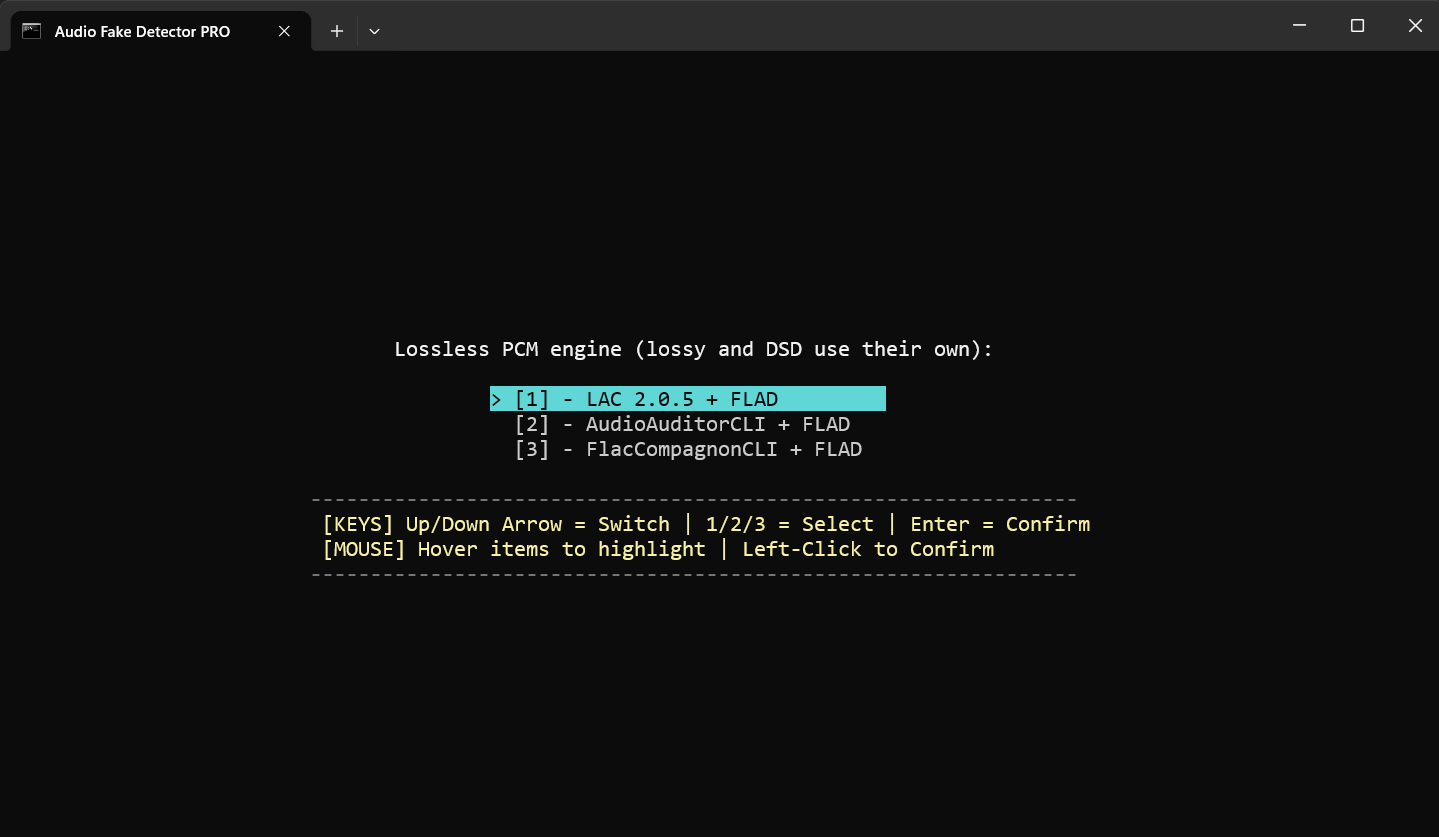
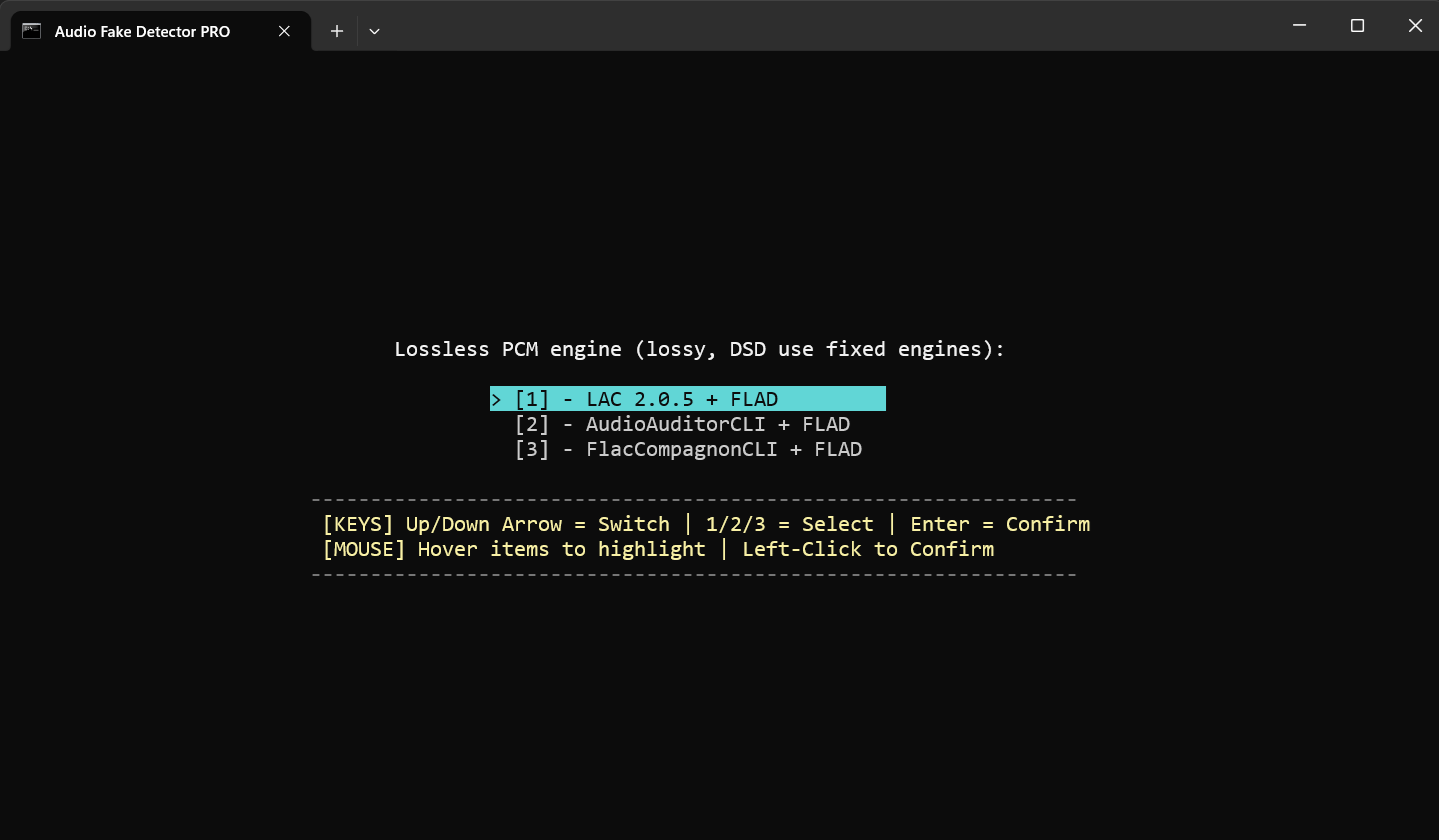
Add files via upload

diff --git a/README.md b/README.md
@@ -49,7 +49,7 @@ Self explained
 
 * Detection of fake 320 kbps MP3 files
 * Detection of fake lossless audio (FLAC, WAV, APE, AIFF, WV)
-* Hi-Res / Ultra-Hi-Res PCM analysis (up to 384 kHz and beyond) and native DSD support (.dsf, .dff), with DSD-to-PCM noise-shaping recognition to avoid false positives on genuine SACD/DSD-derived content
+* Hi-Res / Ultra-Hi-Res PCM analysis (up to 384 kHz and beyond) and native DSD support (.dsf, .dff), analyzed on native DSD slots by FlacCompagnonCLI
 * Spectral cutoff and compression artifact detection
 * Multi-segment frequency analysis
 * Joint stereo anomaly detection
@@ -71,7 +71,7 @@ Audio Fake Detector PRO uses a hybrid analysis engine:
 * **Statistical Validation**: verifies lossless authenticity using the selected lossless engine. LAC + FLAD, AudioAuditorCLI + FLAD, and FlacCompagnonCLI + FLAD use FLAD as a second-opinion check.
 * **Segment-Based Voting System**: improves accuracy by analyzing multiple independent audio segments
 
-This approach reduces false positives and improves detection reliability across different audio formats, including Hi-Res/Ultra-Hi-Res PCM and native DSD, where a dedicated noise-shaping signature check tells a genuine SACD/DSD-derived source apart from an upsampled fake.
+This approach reduces false positives and improves detection reliability across different audio formats, including Hi-Res/Ultra-Hi-Res PCM and native DSD.
 
 ---
 
@@ -87,7 +87,7 @@ LAC performs the primary command-line analysis. FLAD is used as a second-opinion
 If LAC identifies a file as "Fake", no FLAD second-opinion verdict is required to reject the file as genuine lossless.
 
 For slot analysis, FLAC files are temporarily converted to WAV segments (slots) for LAC. LAC and FLAD then analyse the same corresponding temporary WAV segment for each slot.  
-For full-track analysis, LAC analyses the temporary full-track WAV converted from the original FLAC, while FLAD analyses the original FLAC file directly.  
+For full-track analysis, LAC (which reads only WAV) analyses the original WAV directly, or a temporary full-track WAV converted from the original FLAC or any other non-WAV lossless format, while FLAD analyses the original file directly.  
 Therefore, the temporary FLAC-to-WAV conversion is required only for the LAC analysis path.
 
 Both command-line analyzers run through a unified 3-slot processing pipeline. The LAC/FLAD verification pipeline applies exclusively to lossless PCM audio.  
@@ -106,14 +106,14 @@ AudioAuditorCLI is the Windows x64 command-line client from the AudioAuditor pro
 For the 3-slot processing architecture, AudioAuditorCLI and FLAD analyse corresponding native-format slot files. A FLAC source remains FLAC for both analyzers; a WAV source remains WAV. No FLAC-to-WAV conversion is performed for the AudioAuditorCLI + FLAD path.  
 For full-track analysis, AudioAuditorCLI and FLAD both analyse the original source file directly, in its original format.
 
-AudioAuditorCLI + FLAD applies exclusively to lossless PCM audio. Native DSD files are not passed to either command-line analyzer and continue to use Audio Fake Detector PRO's native DSD analysis path.
+AudioAuditorCLI + FLAD applies exclusively to lossless PCM audio. Native DSD files are not passed to either command-line analyzer; they are analyzed by FlacCompagnonCLI (see the DSD section).
 
 The AudioAuditorCLI executable is not included in the base distribution when absent; when this engine is selected, Audio Fake Detector PRO can download `AudioAuditorCLI-win-x64.exe` automatically from the project's official GitHub release after the user has selected the corresponding mode.
 
 #### FlacCompagnonCLI + FLAD mode
 
 FlacCompagnonCLI is used as the primary lossless verification engine, with FLAD as an independent second-opinion check.  
-FlacCompagnonCLI is used exclusively for lossless PCM audio; native DSD files are not passed to, or analyzed by, FlacCompagnonCLI.  
+For lossless PCM audio FlacCompagnonCLI is paired with FLAD; native DSD files are analyzed by FlacCompagnonCLI alone, in every engine mode (see the DSD section).  
 No FLAC-to-WAV conversion is performed in either slot or full-track analysis. For slot analysis, FlacCompagnonCLI and FLAD analyze the same corresponding native-format slot: FLAC remains FLAC and WAV remains WAV. For full-track analysis, both analyzers analyze the original source file directly in its original format.  
 FlacCompagnonCLI is a custom command-line frontend based on the open-source FlacCompagnon project.
 
@@ -121,8 +121,11 @@ FlacCompagnonCLI is a custom command-line frontend based on the open-source Flac
 
 ### 🎧 DSD
 
-Audio Fake Detector PRO provides native DSD support (.dsf / .dff) independently of LAC, FLAD, AudioAuditorCLI, and FlacCompagnonCLI. Native DSD files are analyzed by the application's own DSD processing and are not processed through any of the selectable lossless verification pipelines.  
-The application also provides SACD/DSD-to-PCM noise-shaping detection, allowing DSD-derived characteristics to be identified when analyzing PCM material. This functionality is part of Audio Fake Detector PRO and is not performed by LAC, FLAD, AudioAuditorCLI, or FlacCompagnonCLI.
+Native DSD files (.dsf / .dff) are analyzed by FlacCompagnonCLI, in every engine mode (LAC + FLAD, AudioAuditorCLI + FLAD and FlacCompagnonCLI + FLAD). LAC, FLAD and AudioAuditorCLI are not used for DSD.  
+The 3 analysis slots are native DSD files in the same container as the source: a DSF slot is a DSF file and a DFF slot is a DFF file. The DSD bitstream is copied as-is from the original file; FFmpeg is not involved and nothing is decoded or resampled.  
+The 3 slots are analyzed in parallel, each by its own `ForceRedirect.exe` + `FlacCompagnonCLI.exe` pair, with FlacCompagnonCLI, and every process it spawns (such as ffmpeg), running at BelowNormal priority. The final verdict is the vote of the 3 slot results, using the same table as lossless audio; if no slot returns a usable verdict, the file is reported as UNKNOWN.  
+The container is checked a priori: for a DST-compressed DFF, native slots are not possible, so its 3 slots are extracted as WAV by FFmpeg (float32, decoder PCM rate, no extra resampling) and analyzed by FlacCompagnonCLI. DSF and uncompressed DFF always use native DSD slots.  
+`FlacCompagnonCLI.exe` must be present for DSD analysis in every engine mode.
 
 ---
 
@@ -137,9 +140,23 @@ The combination of a primary lossless analyzer and FLAD provides complementary v
 LAC is useful for detecting sample-rate upscaling (e.g. 44.1 → 48 kHz).  
 FLAD helps identify lossy-to-lossless transcodes (e.g. MP3/AAC → WAV/FLAC).  
 AudioAuditorCLI provides an additional independent lossless analysis path, returning explicit REAL / FAKE / UNKNOWN classifications.  
-Neither LAC, FLAD, AudioAuditorCLI, nor FlacCompagnonCLI is responsible for native DSD analysis; DSD processing is handled independently by Audio Fake Detector PRO since version 8.4.
+LAC, FLAD and AudioAuditorCLI are not used for native DSD analysis, which is handled by FlacCompagnonCLI alone (see the DSD section).
 
 These complementary analysis paths can expose different types of suspicious lossless material that may be missed by one analyzer alone.
+
+---
+
+### 🎯 Full Lossless Analysis
+
+The **Full lossless** toggle in the selection window analyzes the entire file instead of 3 slots, for every lossless format and for native DSD.  
+Lossless files are analyzed in their original format whenever the selected engine reads it natively. A temporary full-length WAV is made only when it does not, and the engine and FLAD then analyze that same WAV:  
+* **AudioAuditorCLI** reads FLAC, WAV, AIFF/AIF, APE, WV, ALAC, TTA, TAK and AU/SND natively.  
+* **FlacCompagnonCLI** reads FLAC, WAV, AIFF/AIF, ALAC and CAF natively; APE, WV, TTA, TAK and AU/SND are converted.  
+* **LAC** reads only WAV: a FLAC, and any other non-WAV source, is converted.  
+For formats other than FLAC and WAV, CLEAN is reported only when both the engine and FLAD return a verdict: if one of them cannot analyze the file, or a needed conversion fails, the result is UNKNOWN. A FAKE or SUSPECT from either stands.  
+In the per-slot analysis the second engine is always FLAD, whose supported input formats are not documented: slots stay in their native format only for FLAC and WAV, and every other format is cut as WAV.  
+Native DSD is always analyzed by FlacCompagnonCLI alone, whatever engine combination is selected, directly on the original file. Only a DST-compressed DFF is first decoded to a temporary full-length WAV by FFmpeg.  
+Full-track results are written to the main CSV only.
 
 ---
 
@@ -161,13 +178,14 @@ Shorter analysis segments provide faster analysis, while longer segments may pro
 ## 📦 Supported Formats
 
 **Lossy:**
-MP3, AAC, M4A, OGG, OPUS, WMA
+MP3, MP2, AAC, M4A, M4B, M4R, MP4, 3GP, 3G2, OGG, OPUS, WMA, Musepack (MPC, MP+), AC3, WEBM
 
 **Lossless:**
-FLAC, WAV, APE, AIFF, AIF, WV (up to Ultra-Hi-Res, e.g. 352.8/384 kHz and beyond)
+FLAC, WAV, AIFF, AIF, APE, WV, ALAC, TTA, TAK, CAF, AU, SND (up to Ultra-Hi-Res, e.g. 352.8/384 kHz and beyond)  
+ALAC is recognized by its codec inside M4A/MP4 files and analyzed as lossless.
 
 **Native DSD:**
-DSF, DFF (DSD64/128/256/512 - decimated to DXD 352.8 kHz/24-bit PCM for analysis; requires ffmpeg.exe/ffprobe.exe, always available with v8.x's bundled or auto-installed FFmpeg)
+DSF, DFF (DSD64/128/256/512 - analyzed on native DSD slots by FlacCompagnonCLI; ffprobe.exe is used to read duration and metadata)
 
 **Matroska:**
 MKV, MKA, MKS, MK3D
@@ -180,6 +198,7 @@ MKV, MKA, MKS, MK3D
 - .NET 8 Runtime (automated download and silent install provided)  
 - PowerShell: 5.1 (pre-installed on Windows 10/11)  
 - Network: Internet connection required on first run (for dependencies download)  
+- FlacCompagnonCLI.exe: required for native DSD analysis in every engine mode, and as the primary engine in FlacCompagnonCLI + FLAD mode  
 
 ---
 
@@ -256,6 +275,8 @@ For the 3-slot lossless analysis pipeline (AudioAuditorCLI + FLAD), each slot us
 
 For FlacCompagnonCLI + FLAD mode, each slot uses its own physical copy of `ForceRedirect.exe`, `flad_cli.exe`, and FLAD's model folder in the same slot-tool infrastructure. `FlacCompagnonCLI.exe` itself is not duplicated per slot; all 3 slots share the single copy in the main tool folder. The slot input remains in its original audio format: no FLAC-to-WAV conversion is performed. Full-track analysis uses the original file directly; FLAD reuses slot2's FLAD tool copy instead of requiring a third on-disk FLAD copy.
 
+Native DSD analysis (all engine modes) uses the same per-slot `ForceRedirect.exe` copies as above; `FlacCompagnonCLI.exe` is shared from the main tool folder. FLAD is not used for DSD.
+
 Temporary analysis files are stored in a temporary working folder created automatically for each analysis session. The folder name contains a unique identifier generated for that session; this identifier is only used to keep the temporary files of different sessions separate. The session folder is removed during cleanup when the corresponding analysis work is finished.
 
 Standard: `%TEMP%\AudioFakeDetector\Session_<unique-ID>\`
@@ -264,6 +285,7 @@ Portable: `.\Data\App\Temp\Session_<unique-ID>\`
 In LAC + FLAD mode, this session directory may contain spectrogram PNGs, temporary WAV segments/full-track WAV data required by the LAC path, and TXT logs.
 In AudioAuditorCLI + FLAD mode, it contains native-format slot data, AudioAuditorCLI/FLAD TXT logs, and analysis intermediates; no FLAC-to-WAV conversion is required by AudioAuditorCLI.
 In FlacCompagnonCLI + FLAD mode, it contains native-format slot data, FLAD TXT logs, and analysis intermediates; no FLAC-to-WAV conversion is performed.
+For native DSD files (all engine modes), it contains the 3 temporary native DSD slot files and the FlacCompagnonCLI TXT logs; the slot files are deleted when the track's analysis ends.
 
 FLAD's own per-slot spectrogram PNGs are stored separately and deleted after each track's FLAD check. They are used only by modes that include FLAD:
 Standard: `%LOCALAPPDATA%\AudioFakeDetector\tmp\`, `...\slot2\tmp\`, `...\slot3\tmp\` | Portable: `.\Data\App\tmp\`, `.\Data\App\slot2\tmp\`, `.\Data\App\slot3\tmp\`
